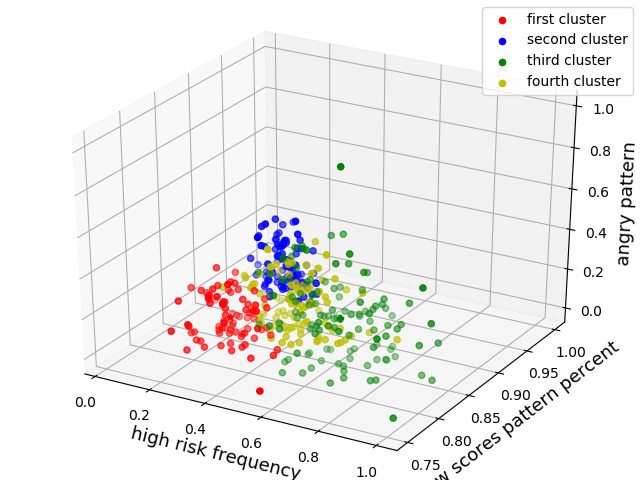
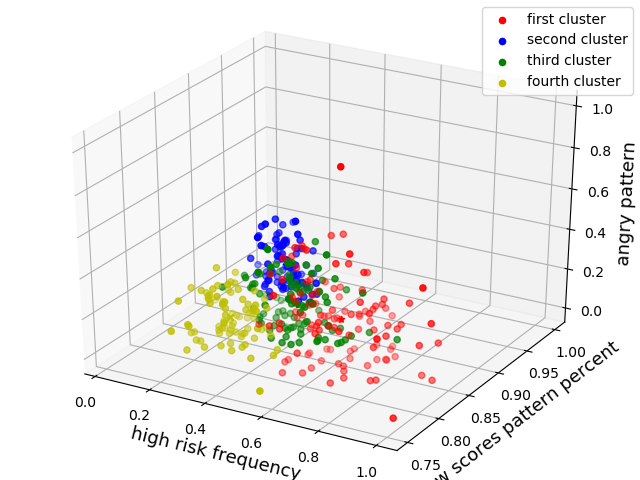
cop-kmeans added, and plot figure

diff --git a/OBD_project-master/dataHandler/Algorithm_comparision/COP-Kmeans-master/COP_Kmeans.py b/OBD_project-master/dataHandler/Algorithm_comparision/COP-Kmeans-master/COP_Kmeans.py
@@ -5,8 +5,20 @@
 # @File    : COP_Kmeans.py
 # @Software: PyCharm
 
-import numpy
+import numpy as np
 from copkmeans.cop_kmeans import cop_kmeans
+
+import matplotlib.pyplot as plt
+
+# input_matrix = np.random.rand(90, 5)
+# print(input_matrix)
+# must_link = [(0, 1), (0, 20), (0, 30)]
+# cannot_link = [(1, 10), (2, 10), (3, 10)]
+# clusters, centers = cop_kmeans(dataset=input_matrix, k=5, ml=must_link,cl=cannot_link)
+# print(clusters)
+# print(len(clusters))
+from mpl_toolkits.mplot3d import Axes3D
+
 
 def read_txt():
     with open('../../../data/fakeData.txt', 'r') as f:
@@ -22,9 +34,70 @@ def read_txt():
     return file_list
 
 
-input_matrix = numpy.random.rand(100, 500)
-input_matrix = read_txt()
-print(input_matrix)
-must_link = [(0, 10), (0, 20), (0, 30)]
-cannot_link = [(1, 10), (2, 10), (3, 10)]
-clusters, centers = cop_kmeans(dataset=input_matrix, k=5, ml=must_link,cl=cannot_link)
+normal_events = ['a', 'h', 'v', 'o']
+medium_events = ['b', 'i', 'p', 'w']
+high_events = ['c', 'j', 'q', 'x']
+
+
+def word2vector(word):
+    x0, x1, x2 = 0, 0, 0
+    for l in word:
+        if l in normal_events:
+            x0 += 1
+        elif l in medium_events:
+            x1 += 10
+        elif l in high_events:
+            x2 += 20
+    return [x0, x1, x2, len(word)]
+
+
+def build_matrix(document, input=[]):
+    for word in document:
+        temp_v = word2vector(word)
+        if temp_v not in input:
+            input.append(temp_v)
+    # print(input)
+    return input
+
+
+def cop_kmean():
+    # input_matrix = numpy.random.rand(100, 500)
+    documents = read_txt()
+    input_matrix = []
+    for i in documents:
+        input_matrix = build_matrix(i, input_matrix)
+
+    print(input_matrix)
+    must_link = [(1,2),(8,9)]
+    cannot_link = [(1,7),(0,5),(0,8)]
+    clusters, centers = cop_kmeans(dataset=input_matrix, k=4, ml=must_link, cl=cannot_link)
+    print(clusters)
+    print(input_matrix)
+    print(len(clusters) , '--',len(input_matrix))
+
+    fig = plt.figure()
+    ax = Axes3D(fig)
+    cluster_set = [[],[],[],[]]
+    for ind in range(len(input_matrix)):
+        temp = input_matrix[ind]
+        cluster_set[clusters[ind]].append((input_matrix[ind]))
+    cluster_arr = tuple(cluster_set)
+    ax.scatter([i[0] for i in cluster_arr[0]],[i[1] for i in cluster_arr[0]],[i[2] for i in cluster_arr[0]], c='r', label='first cluster')
+    ax.scatter([i[0] for i in cluster_arr[1]],[i[1] for i in cluster_arr[1]],[i[2] for i in cluster_arr[1]], c='b', label='second cluster')
+    ax.scatter([i[0] for i in cluster_arr[2]],[i[1] for i in cluster_arr[2]],[i[2] for i in cluster_arr[2]], c='g', label='third cluster')
+    ax.scatter([i[0] for i in cluster_arr[3]],[i[1] for i in cluster_arr[3]],[i[2] for i in cluster_arr[3]], c='y', label='fourth cluster')
+    print('the items of each cluster is: ',len(cluster_set[3][:]),len(cluster_set[2]),len(cluster_set[1]),len(cluster_set[0]))
+    # ax.scatter(centers[0][2], centers[0][3], centers[0][5], marker='*', c='r')
+    # ax.scatter(centers[1][2], centers[1][3], centers[1][5], marker='1', c='b')
+    # ax.scatter(centers[2][2], centers[2][3], centers[2][5], marker='P', c='g')
+    # ax.scatter(centers[3][2], centers[3][3], centers[3][5], marker='x', c='y')
+    # print(cluster_arr[0])
+    ax.legend(loc='best')
+    ax.set_zlabel('high risk', fontdict={'size': 13, 'color': 'black'})
+    ax.set_ylabel('medium risk', fontdict={'size': 13, 'color': 'black'})
+    ax.set_xlabel('normal event', fontdict={'size': 13, 'color': 'black'})
+    plt.savefig('fig.png', bbox_inches='tight')
+    plt.show()
+
+
+cop_kmean()

diff --git a/OBD_project-master/dataHandler/Algorithm_comparision/mean_shift.py b/OBD_project-master/dataHandler/Algorithm_comparision/mean_shift.py
@@ -9,19 +9,55 @@ import numpy as np
 import matplotlib.pyplot as plt
 
 # Input data set
-X = np.array([
-    [-4, -3.5], [-3.5, -5], [-2.7, -4.5],
-    [-2, -4.5], [-2.9, -2.9], [-0.4, -4.5],
-    [-1.4, -2.5], [-1.6, -2], [-1.5, -1.3],
-    [-0.5, -2.1], [-0.6, -1], [0, -1.6],
-    [-2.8, -1], [-2.4, -0.6], [-3.5, 0],
-    [-0.2, 4], [0.9, 1.8], [1, 2.2],
-    [1.1, 2.8], [1.1, 3.4], [1, 4.5],
-    [1.8, 0.3], [2.2, 1.3], [2.9, 0],
-    [2.7, 1.2], [3, 3], [3.4, 2.8],
-    [3, 5], [5.4, 1.2], [6.3, 2]
-])
+# X = np.array([
+#     [-4, -3.5], [-3.5, -5], [-2.7, -4.5],
+#     [-2, -4.5], [-2.9, -2.9], [-0.4, -4.5],
+#     [-1.4, -2.5], [-1.6, -2], [-1.5, -1.3],
+#     [-0.5, -2.1], [-0.6, -1], [0, -1.6],
+#     [-2.8, -1], [-2.4, -0.6], [-3.5, 0],
+#     [-0.2, 4], [0.9, 1.8], [1, 2.2],
+#     [1.1, 2.8], [1.1, 3.4], [1, 4.5],
+#     [1.8, 0.3], [2.2, 1.3], [2.9, 0],
+#     [2.7, 1.2], [3, 3], [3.4, 2.8],
+#     [3, 5], [5.4, 1.2], [6.3, 2]
+# ])
+from matplotlib.ticker import FuncFormatter
 
+
+def read_txt():
+    with open('../../data/fakeData.txt', 'r') as f:
+        lines = f.readlines()
+    file_list = []
+    for line in lines:
+        pattern_list = []
+        patterns = line.split("\'")
+        for i in range(len(patterns)):
+            if i % 2 != 0:
+                pattern_list.append(patterns[i])
+        file_list.append(pattern_list)
+    return file_list
+
+normal_events = ['a','h','v','o']
+medium_events = ['b','i','p','w']
+high_events = ['c','j','q','x']
+def word2vector(word):
+    x0,x1,x2 = 0, 0, 0
+    for l in word:
+        if l in normal_events:
+            x0 += 1
+        elif l in medium_events:
+            x1 += 10
+        elif l in high_events:
+            x2 += 20
+    return [x0,x1,x2,len(word)]
+
+def build_matrix(document, input = []):
+    for word in document:
+        temp_v = word2vector(word)
+        if temp_v not in input:
+            input.append(temp_v)
+    # print(input)
+    return input
 
 def mean_shift(data, radius=2.0):
     clusters = []
@@ -63,7 +99,8 @@ def mean_shift(data, radius=2.0):
 
     print('clusters (', len(clusters), '): ', clusters)
     clustering(data, clusters)
-    show_clusters(clusters, radius)
+    print('number of clusters: ',len(clusters))
+    show_clusters(clusters, radius,data)
 
 
 # Clustering data using frequency
@@ -81,7 +118,7 @@ def clustering(data, clusters):
 
 
 # Plot clusters
-def show_clusters(clusters, radius):
+def show_clusters(clusters, radius, X):
     colors = 10 * ['r', 'g', 'b', 'k', 'y']
     plt.figure(figsize=(5, 5))
     plt.xlim((-8, 8))
@@ -95,8 +132,19 @@ def show_clusters(clusters, radius):
         centroid = cluster['centroid']
         plt.scatter(centroid[0], centroid[1], color=colors[i], marker='x', s=30)
         x, y = np.cos(theta) * radius + centroid[0], np.sin(theta) * radius + centroid[1]
+
+        plt.xlim((0,8))
+        plt.ylim((0, 80))
         plt.plot(x, y, linewidth=1, color=colors[i])
     plt.show()
 
+def main():
+    documents = read_txt()
+    input = []
+    for i in documents:
+        input = build_matrix(i,input)
 
-mean_shift(X, 2.5)
+    X = np.array(input)
+    mean_shift(X, 35)
+
+main()

diff --git a/OBD_project-master/OBD_GUI/Kmeans.py b/OBD_project-master/OBD_GUI/Kmeans.py
@@ -62,7 +62,8 @@ ax.scatter(cluster0[:,2],cluster0[:,3],cluster0[:,5],c='r',label='first cluster'
 ax.scatter(cluster1[:,2],cluster1[:,3],cluster1[:,5],c='b',label='second cluster')
 ax.scatter(cluster2[:,2],cluster2[:,3],cluster2[:,5],c='g',label='third cluster')
 ax.scatter(cluster3[:,2],cluster3[:,3],cluster3[:,5],c='y',label='fourth cluster')
-
+print(len(cluster0))
+print(cluster0[0])
 ax.scatter(centers[0][2],centers[0][3],centers[0][5],marker='*',c='r')
 ax.scatter(centers[1][2],centers[1][3],centers[1][5],marker='1',c='b')
 ax.scatter(centers[2][2],centers[2][3],centers[2][5],marker='P',c='g')
